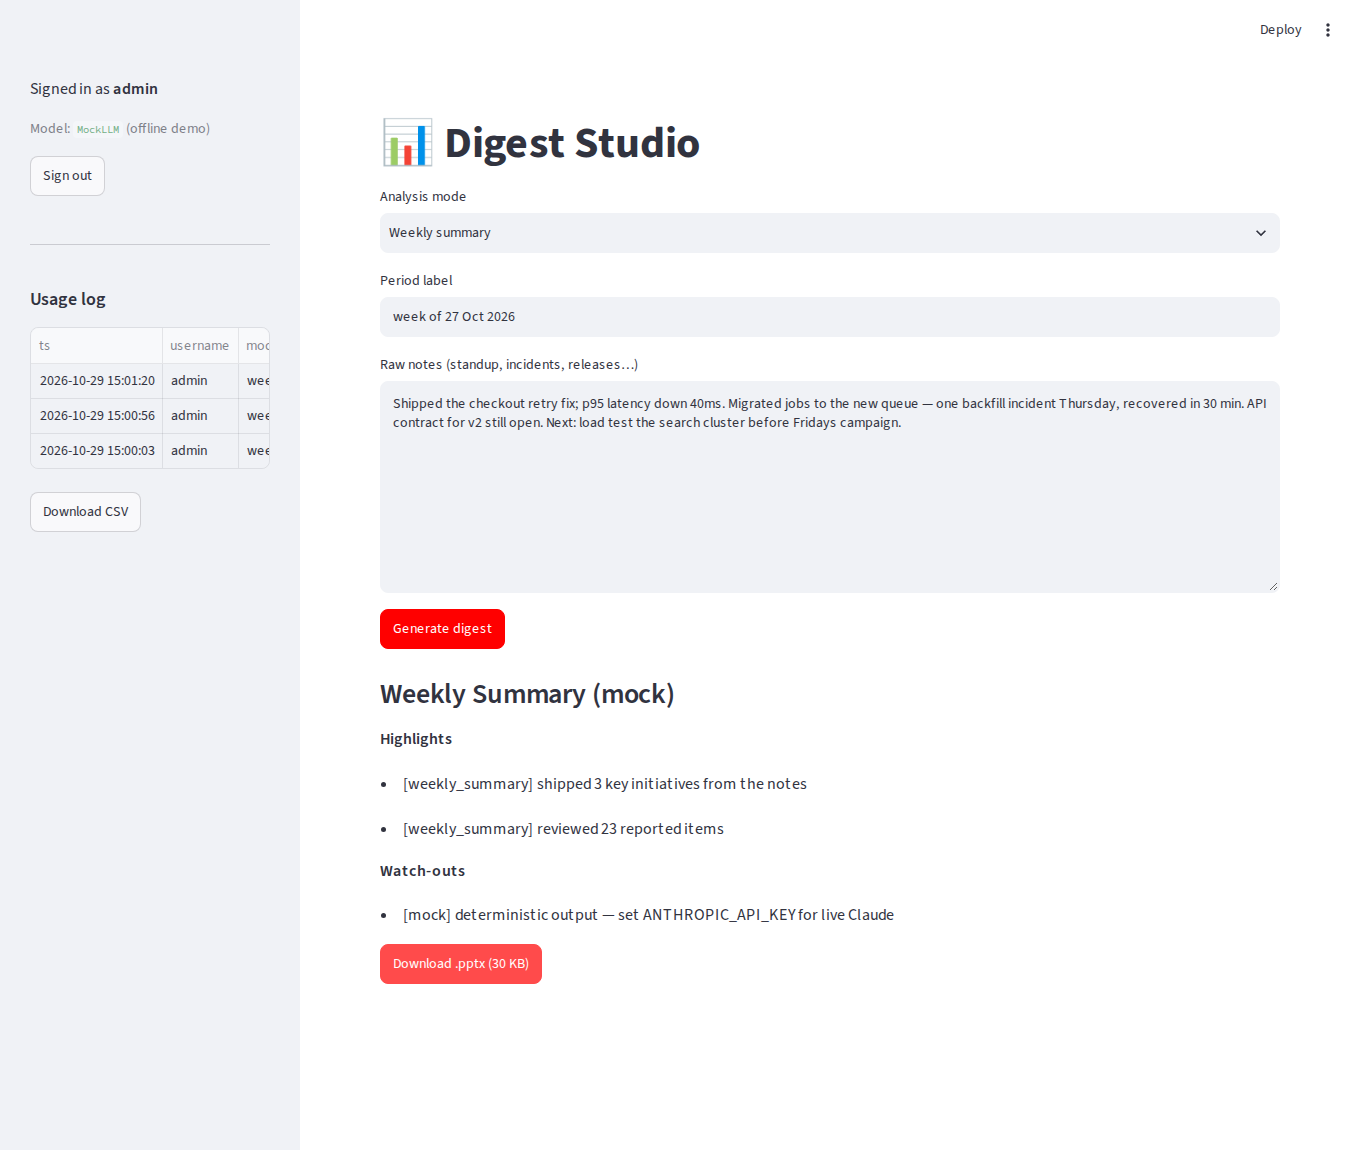
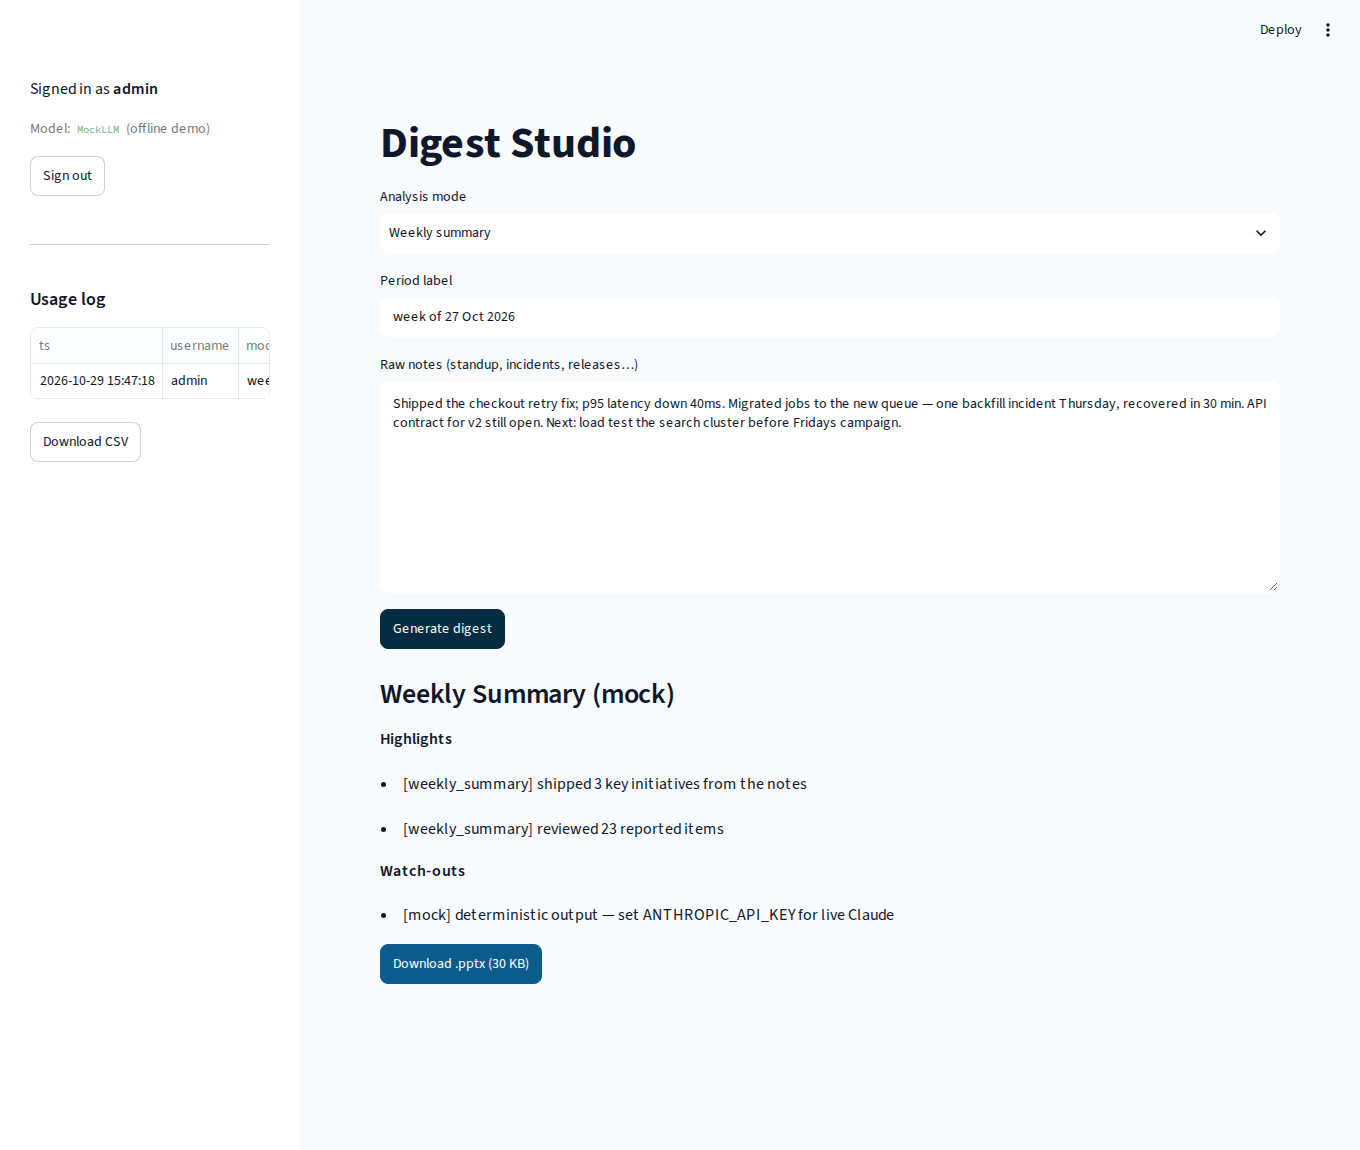
Add light flat theme via Streamlit config and refresh demo screenshots

diff --git a/app.py b/app.py
@@ -32,7 +32,7 @@ SAMPLE = (
 
 
 def login_view() -> None:
-    st.title("📊 Digest Studio")
+    st.title("Digest Studio")
     st.caption("Turn raw team notes into a slide-ready weekly digest.")
     with st.form("login"):
         username = st.text_input("Username", autocomplete="username")
@@ -55,7 +55,7 @@ def main_view() -> None:
             st.session_state.clear()
             st.rerun()
 
-    st.title("📊 Digest Studio")
+    st.title("Digest Studio")
     mode = st.selectbox("Analysis mode", list(modes.MODES), format_func=MODE_LABELS.get)
     period = st.text_input("Period label", "week of 27 Oct 2026")
     notes = st.text_area("Raw notes (standup, incidents, releases…)", height=240, placeholder=SAMPLE)
